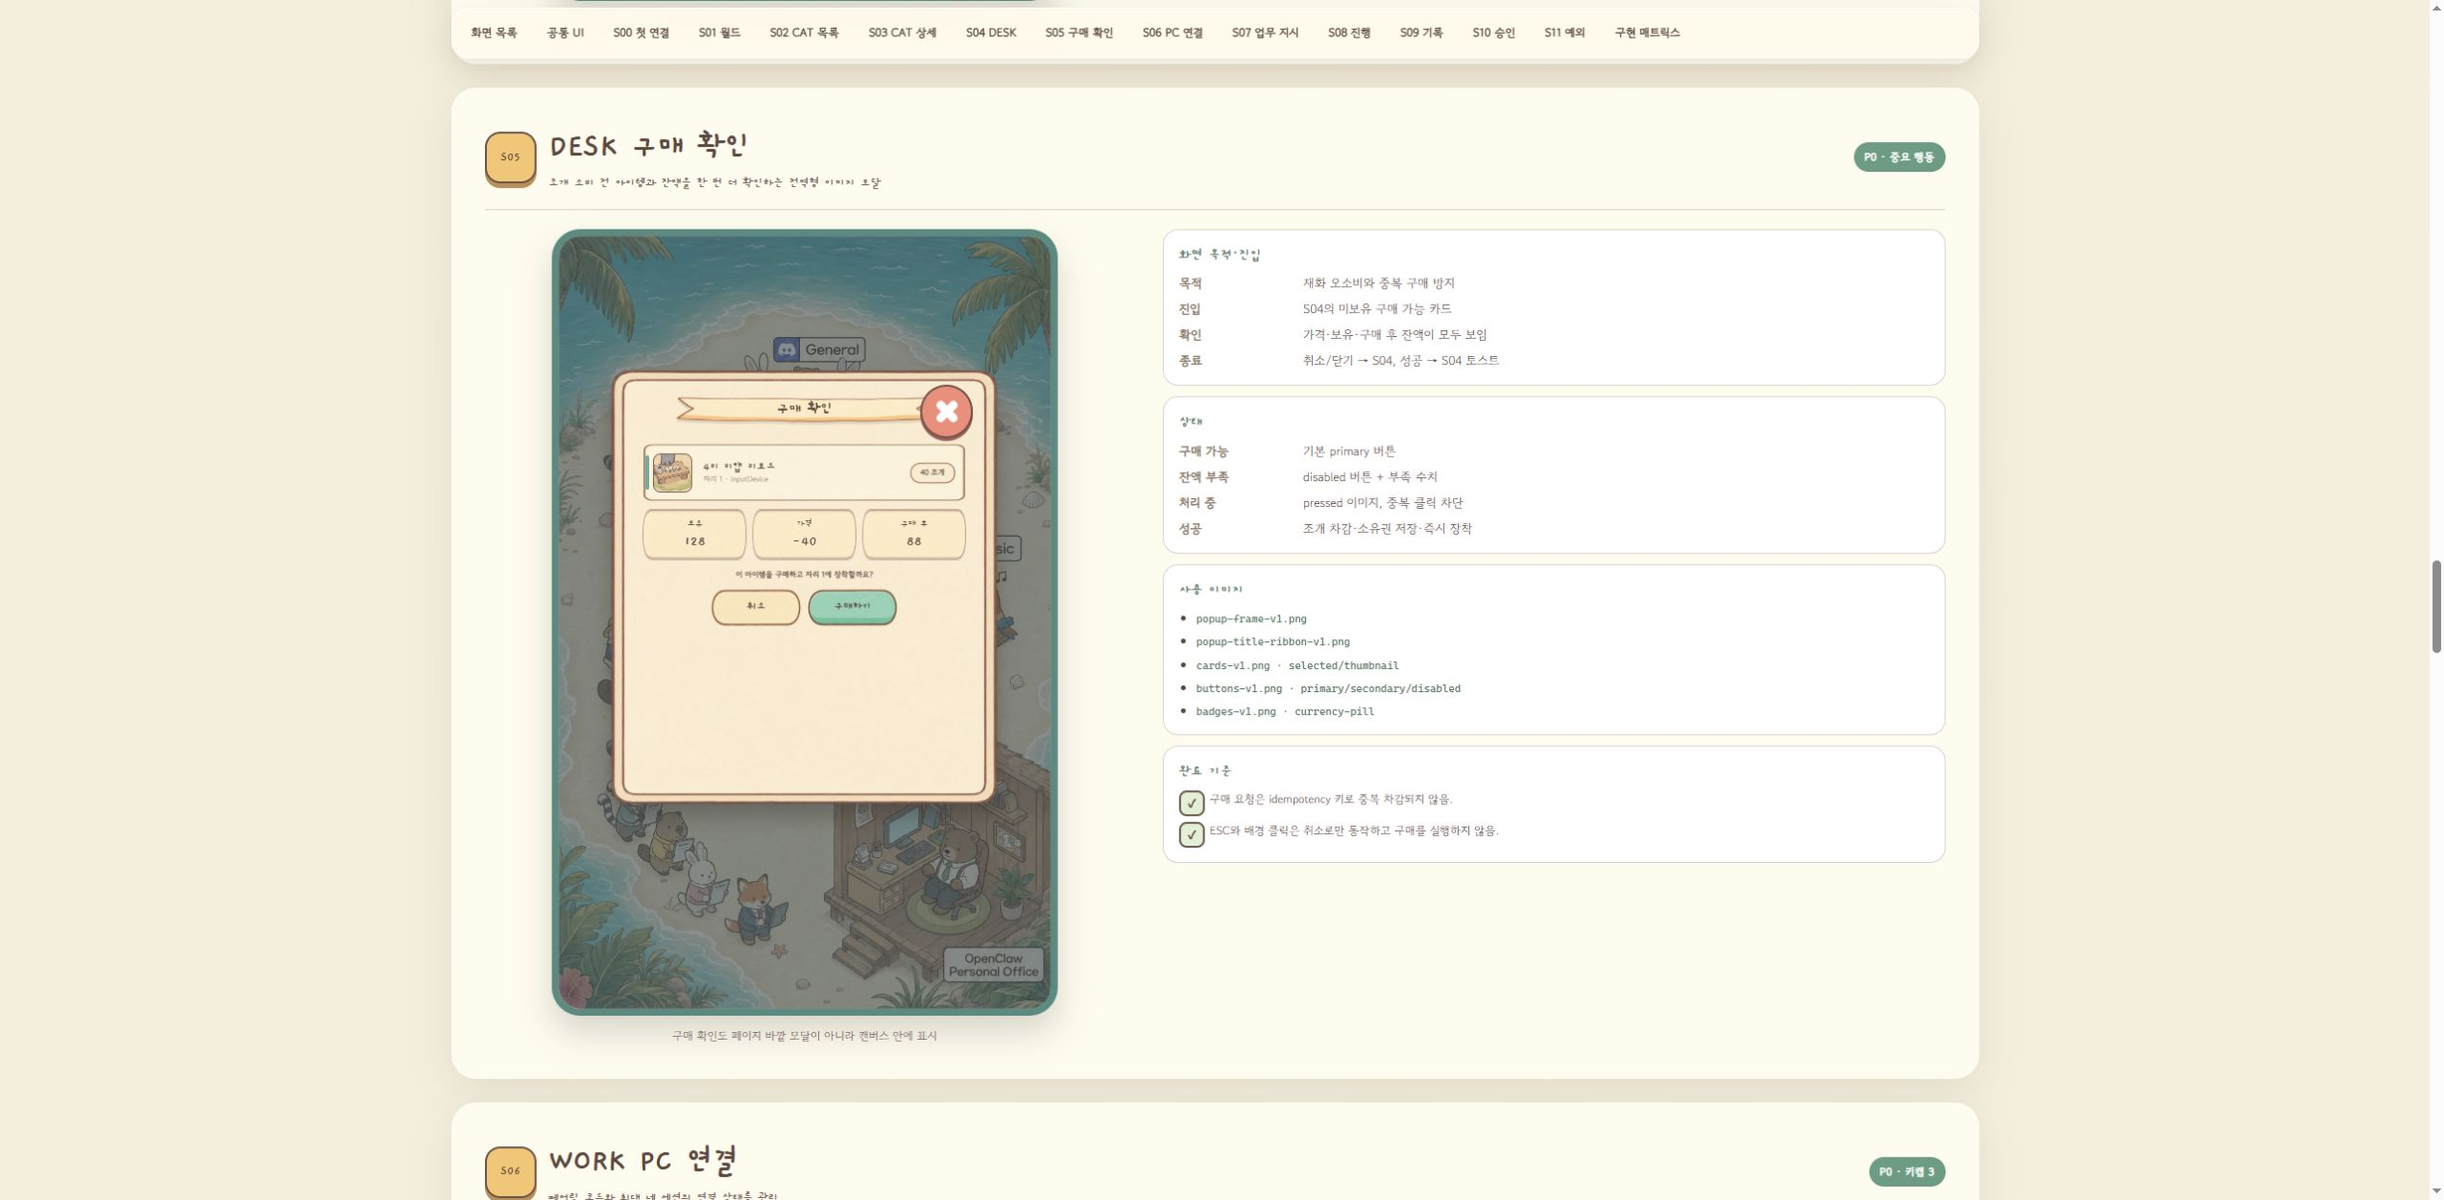
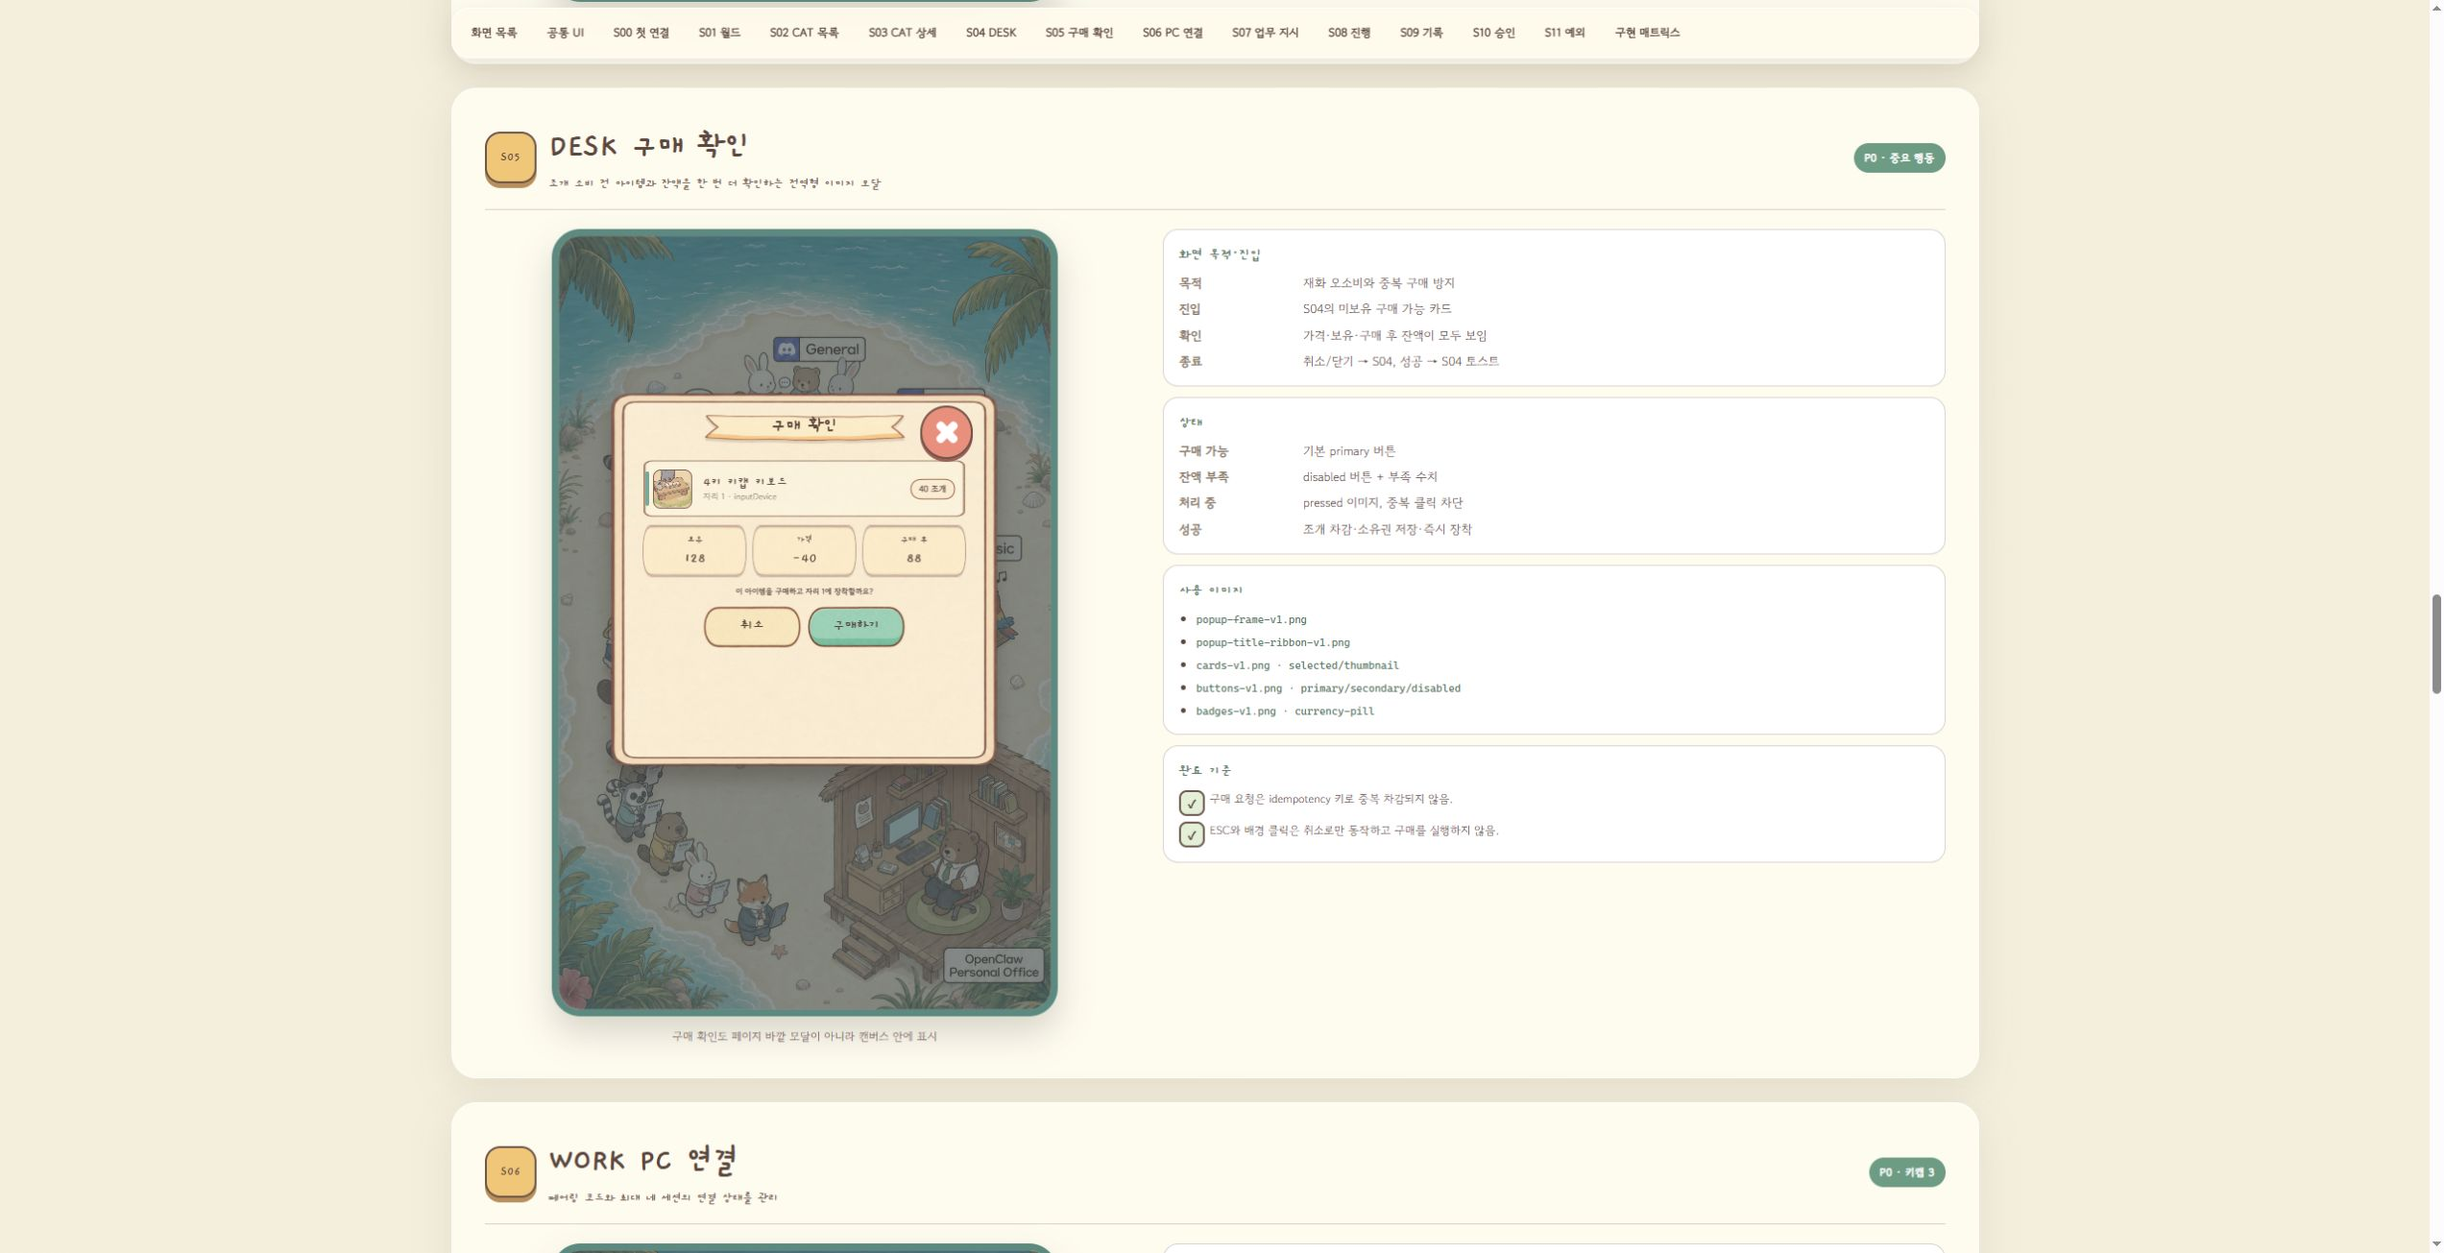
docs: strengthen popup typography and tabs

diff --git a/docs/cat-agent-screen-definition-20260728.html b/docs/cat-agent-screen-definition-20260728.html
@@ -24,7 +24,7 @@
     }
 
     * { box-sizing: border-box; }
-    html { scroll-behavior: smooth; }
+    html { scroll-behavior: auto; }
 
     body {
       margin: 0;
@@ -1191,23 +1191,23 @@
     }
 
     .title-ribbon {
-      top: 4.4%;
-      left: 14%;
-      width: 72%;
-      height: 10.5%;
+      top: 3.6%;
+      left: 22%;
+      width: 56%;
+      height: 12.8%;
     }
 
     .title-text {
-      top: 6.25%;
-      left: 20%;
+      top: 5.45%;
+      left: 26%;
       display: grid;
-      width: 60%;
-      height: 6.2%;
+      width: 48%;
+      height: 8.1%;
       place-items: center;
       overflow: hidden;
       color: #60483f;
       font-family: "Gaegu", "Gowun Dodum", sans-serif;
-      font-size: 16px;
+      font-size: 19px;
       font-weight: 700;
       line-height: 1;
       text-align: center;
@@ -1232,14 +1232,14 @@
     }
 
     .panel-body {
-      top: 17.5%;
+      top: 18.4%;
       left: 9%;
       width: 82%;
-      height: 74%;
+      height: 73%;
       color: #604d45;
       font-family: "Gowun Dodum", sans-serif;
-      font-size: 10px;
-      line-height: 1.42;
+      font-size: 11px;
+      line-height: 1.46;
     }
 
     .panel-body.scroll {
@@ -1252,7 +1252,7 @@
       margin-bottom: 2px;
       color: #927568;
       font-family: "Gaegu", sans-serif;
-      font-size: 9px;
+      font-size: 10px;
       font-weight: 700;
       letter-spacing: .08em;
     }
@@ -1264,7 +1264,8 @@
 
     .panel-heading strong {
       font-family: "Gaegu", sans-serif;
-      font-size: 15px;
+      font-size: 17px;
+      font-weight: 700;
       line-height: 1;
     }
 
@@ -1279,7 +1280,7 @@
       border-radius: 0;
       color: #6b554b;
       background: url("../public/art/ui/slices/badge-pill-v2.png") center / 100% 100% no-repeat;
-      font-size: 8px;
+      font-size: 9px;
       font-weight: 700;
       line-height: 1;
       white-space: nowrap;
@@ -1334,7 +1335,7 @@
     .log-row strong {
       margin-bottom: 2px;
       font-family: "Gaegu", "Gowun Dodum", sans-serif;
-      font-size: 12px;
+      font-size: 14px;
       font-weight: 700;
       line-height: 1.05;
     }
@@ -1342,7 +1343,7 @@
     .ui-card small,
     .log-row small {
       color: #887469;
-      font-size: 8px;
+      font-size: 9px;
       line-height: 1.25;
     }
 
@@ -1359,9 +1360,11 @@
     }
 
     .ui-tabs {
+      position: relative;
       align-items: end;
       gap: 2px;
-      margin-bottom: 8px;
+      margin-bottom: 9px;
+      isolation: isolate;
     }
 
     .ui-tab {
@@ -1374,10 +1377,14 @@
       color: #745e53;
       background: url("../public/art/ui/slices/tab-idle-v2.png") center / 100% 100% no-repeat;
       font-family: "Gaegu", "Gowun Dodum", sans-serif;
-      font-size: 11px;
+      font-size: 13px;
       font-weight: 700;
       line-height: 1;
       text-align: center;
+      filter:
+        drop-shadow(0 -1px 0 rgba(103, 76, 66, .78))
+        drop-shadow(1px 0 0 rgba(103, 76, 66, .62))
+        drop-shadow(-1px 0 0 rgba(103, 76, 66, .62));
     }
 
     .ui-tab.active {
@@ -1385,6 +1392,43 @@
       padding-top: 7px;
       color: #557766;
       background: url("../public/art/ui/slices/tab-active-v2.png") center / 100% 100% no-repeat;
+      filter:
+        drop-shadow(0 -1px 0 rgba(91, 70, 61, .9))
+        drop-shadow(1px 0 0 rgba(91, 70, 61, .72))
+        drop-shadow(-1px 0 0 rgba(91, 70, 61, .72));
+    }
+
+    .panel-body.tabbed {
+      position: absolute;
+      padding: 0 7px 9px;
+      overflow: visible;
+      isolation: isolate;
+    }
+
+    .panel-body.tabbed::after {
+      position: absolute;
+      z-index: -1;
+      top: 37px;
+      right: 0;
+      bottom: 0;
+      left: 0;
+      border: 2px solid #816358;
+      border-top-width: 2px;
+      border-radius: 0 0 13px 13px;
+      background: rgba(255, 249, 232, .93);
+      box-shadow:
+        inset 0 0 0 2px rgba(255, 255, 255, .52),
+        0 3px 0 rgba(111, 80, 68, .12);
+      content: "";
+    }
+
+    .panel-body.tabbed > .ui-tabs:first-child {
+      z-index: 2;
+      margin: 0 -7px 10px;
+    }
+
+    .panel-body.tabbed.scroll {
+      overflow-y: auto;
     }
 
     .ui-button-row {
@@ -1396,16 +1440,16 @@
 
     .ui-btn {
       display: inline-flex;
-      min-width: 94px;
-      min-height: 39px;
-      padding: 3px 16px 6px;
+      min-width: 102px;
+      min-height: 44px;
+      padding: 3px 18px 7px;
       align-items: center;
       justify-content: center;
       border-radius: 0;
       color: #57463f;
       background: url("../public/art/ui/slices/button-primary-v2.png") center / 100% 100% no-repeat;
       font-family: "Gaegu", "Gowun Dodum", sans-serif;
-      font-size: 12px;
+      font-size: 15px;
       font-weight: 700;
       line-height: 1;
       text-align: center;
@@ -1427,13 +1471,13 @@
     }
 
     .ui-btn.large {
-      min-width: 150px;
-      min-height: 43px;
+      min-width: 166px;
+      min-height: 48px;
     }
 
     .form-label {
       margin-top: 8px;
-      font-size: 9px;
+      font-size: 10px;
       font-weight: 700;
     }
 
@@ -1450,13 +1494,13 @@
     .inline-field {
       min-height: 37px;
       padding: 10px 13px;
-      font-size: 10px;
+      font-size: 11px;
     }
 
     .textarea {
       min-height: 86px;
       padding: 12px 14px;
-      font-size: 9px;
+      font-size: 10px;
       line-height: 1.5;
     }
 
@@ -1504,12 +1548,24 @@
     }
 
     .style-chip {
-      min-height: 30px;
+      min-height: 40px;
+      padding: 5px 3px 7px;
       border: 0;
       border-radius: 0;
       background: url("../public/art/ui/slices/button-disabled-v2.png") center / 100% 100% no-repeat;
       font-family: "Gaegu", sans-serif;
-      font-size: 9px;
+      font-size: 10px;
+      font-weight: 700;
+      line-height: 1.05;
+      text-align: center;
+    }
+
+    .style-chip small {
+      display: block;
+      margin-top: 3px;
+      color: #8c6552;
+      font-family: "Gowun Dodum", sans-serif;
+      font-size: 7px;
       font-weight: 700;
     }
 
@@ -1526,7 +1582,7 @@
       border-radius: 0;
       background: url("../public/art/ui/slices/card-default-v2.png") center / 100% 100% no-repeat;
       font-family: "Gaegu", sans-serif;
-      font-size: 9px;
+      font-size: 10px;
     }
 
     .item-card.active {
@@ -1557,12 +1613,12 @@
 
     .approval-hero {
       padding: 13px;
-      font-size: 9px;
+      font-size: 10px;
     }
 
     .approval-hero strong {
       font-family: "Gaegu", sans-serif !important;
-      font-size: 14px !important;
+      font-size: 17px !important;
     }
 
     .approval-icon {
@@ -1577,7 +1633,7 @@
 
     .state-tile strong {
       font-family: "Gaegu", sans-serif;
-      font-size: 12px;
+      font-size: 14px;
     }
 
     .fidelity-audit {
@@ -1721,11 +1777,11 @@
 
     @media (max-width: 720px) {
       .title-text {
-        font-size: 14px;
+        font-size: 17px;
       }
 
       .panel-body {
-        font-size: 9px;
+        font-size: 10px;
       }
 
       .ui-card {
@@ -1733,9 +1789,9 @@
       }
 
       .ui-btn {
-        min-width: 86px;
-        min-height: 38px;
-        font-size: 11px;
+        min-width: 94px;
+        min-height: 42px;
+        font-size: 14px;
       }
 
       .fidelity-audit-head {
@@ -2034,10 +2090,10 @@
                   <div class="need-stat">배설<b>35</b></div>
                   <div class="need-stat">행복<b>82</b></div>
                 </div>
-                <div class="form-label"><span>털 색 · 무늬</span><span>전체 무료</span></div>
+                <div class="form-label"><span>털 색 · 무늬</span><span>스타일별 가격</span></div>
                 <div class="style-grid">
-                  <span class="style-chip active">Bobtail</span><span class="style-chip">White</span><span class="style-chip">Black</span><span class="style-chip">Blue</span><span class="style-chip">Cream</span>
-                  <span class="style-chip">Siamese</span><span class="style-chip">Persian</span><span class="style-chip">Maine</span><span class="style-chip">Red</span><span class="style-chip">Simple</span>
+                  <span class="style-chip active">Bobtail<small>20 조개</small></span><span class="style-chip">White<small>15 조개</small></span><span class="style-chip">Black<small>15 조개</small></span><span class="style-chip">Blue<small>25 조개</small></span><span class="style-chip">Cream<small>15 조개</small></span>
+                  <span class="style-chip">Siamese<small>30 조개</small></span><span class="style-chip">Persian<small>35 조개</small></span><span class="style-chip">Maine<small>40 조개</small></span><span class="style-chip">Red<small>25 조개</small></span><span class="style-chip">Simple<small>20 조개</small></span>
                 </div>
                 <div class="ui-button-row"><span class="ui-btn secondary">밥 주기</span><span class="ui-btn">간식 주기</span></div>
               </div>
@@ -2047,7 +2103,7 @@
         </div>
         <div class="spec-column">
           <div class="spec-box"><h3>화면 목적·진입</h3><dl class="spec-list"><dt>목적</dt><dd>선택 고양이의 외형과 기본 욕구 관리</dd><dt>진입</dt><dd>S01 고양이 클릭 또는 S02 카드 클릭</dd><dt>뒤로</dt><dd>S02 목록으로 복귀</dd><dt>저장</dt><dd>이름·스타일 변경 즉시 로컬 저장</dd></dl></div>
-          <div class="spec-box"><h3>행동 정의</h3><dl class="spec-list"><dt>밥 주기</dt><dd>그릇 리필 → 고양이가 이동해 먹을 때 배고픔 0</dd><dt>간식 주기</dt><dd>조개 소비 또는 무료 보상 정책 확정 후 적용</dd><dt>스타일</dt><dd>15종 무료, 현재 구현은 전 고양이 공통 적용 경고 표시</dd><dt>이름</dt><dd>1~6자, 공백만 입력 금지</dd></dl></div>
+          <div class="spec-box"><h3>행동 정의</h3><dl class="spec-list"><dt>밥 주기</dt><dd>그릇 리필 → 고양이가 이동해 먹을 때 배고픔 0</dd><dt>간식 주기</dt><dd>조개 소비 또는 무료 보상 정책 확정 후 적용</dd><dt>스타일</dt><dd>종류별 15~40 조개로 최초 구매하며, 구매 완료한 스타일은 추가 비용 없이 다시 적용</dd><dt>이름</dt><dd>1~6자, 공백만 입력 금지</dd></dl></div>
           <div class="spec-box"><h3>사용 이미지</h3><ul class="asset-list"><li><code>cards-v1.png · selected + thumbnail</code></li><li><code>panels-v1.png · progress-track/fill</code></li><li><code>extras-v1.png · button-chip</code></li><li><code>buttons-v1.png · primary/secondary</code></li><li><code>icons-v1.png · paw/check/warning</code></li></ul></div>
           <div class="spec-box"><h3>금지 규칙</h3><dl class="spec-list"><dt>작업 API</dt><dd>행복도·배고픔 때문에 실제 Codex 시작/중단/승인을 지연하지 않음</dd><dt>체형</dt><dd>체형 선택·growthPoints 추천 토스트를 노출하지 않음</dd></dl></div>
           <div class="spec-box"><h3>완료 기준</h3><div class="accept">이름표, 목록, 상세의 욕구 값이 같은 프레임에서 일치.</div><div class="accept">돌봄 애니메이션이 작업 중 타건 애니메이션을 중단하지 않음.</div></div>
@@ -2071,9 +2127,9 @@
               <img class="panel-frame" src="../public/art/ui/popup-frame-v1.png" alt="" />
               <img class="title-ribbon" src="../public/art/ui/popup-title-ribbon-v1.png" alt="" />
               <span class="title-text">자리 꾸미기</span><span class="close-art"></span>
-              <div class="panel-body scroll">
-                <div class="panel-heading"><strong>나의 업무 자리</strong><span class="currency">128 조개</span></div>
+              <div class="panel-body tabbed scroll">
                 <div class="ui-tabs" style="--count:4"><span class="ui-tab active">자리 1</span><span class="ui-tab">자리 2</span><span class="ui-tab">자리 3</span><span class="ui-tab">자리 4</span></div>
+                <div class="panel-heading"><strong>나의 업무 자리</strong><span class="currency">128 조개</span></div>
                 <div class="form-label"><span>티어 진행 · 170 / 870</span><span>Tier 2</span></div>
                 <div class="progress" style="--value:32%"><i></i></div>
                 <div class="item-grid">
@@ -2155,7 +2211,7 @@
               <img class="panel-frame" src="../public/art/ui/popup-frame-v1.png" alt="" />
               <img class="title-ribbon" src="../public/art/ui/popup-title-ribbon-v1.png" alt="" />
               <span class="title-text">PC 연결·업무</span><span class="close-art"></span>
-              <div class="panel-body scroll">
+              <div class="panel-body tabbed scroll">
                 <div class="ui-tabs"><span class="ui-tab active">연결</span><span class="ui-tab">업무 지시</span></div>
                 <div class="panel-heading"><strong>내 PC 세션</strong><span class="card-badge">연결됨</span></div>
                 <div class="ui-card selected"><span class="avatar session">1</span><span><strong>AgentForestWorkspace</strong><small>Codex · idle</small></span><span class="card-badge">온라인</span></div>
@@ -2194,7 +2250,7 @@
               <img class="panel-frame" src="../public/art/ui/popup-frame-v1.png" alt="" />
               <img class="title-ribbon" src="../public/art/ui/popup-title-ribbon-v1.png" alt="" />
               <span class="title-text">업무 지시</span><span class="close-art"></span>
-              <div class="panel-body">
+              <div class="panel-body tabbed">
                 <div class="ui-tabs"><span class="ui-tab">연결</span><span class="ui-tab active">업무 지시</span></div>
                 <div class="ui-card selected"><span class="avatar session">2</span><span><strong>선택 세션 · 게임 UI 수정</strong><small>AgentForestWorkspace</small></span><span class="card-badge">준비</span></div>
                 <div class="form-label"><span>업무 부서</span><span>1개 선택</span></div>
@@ -2233,7 +2289,7 @@
               <img class="panel-frame" src="../public/art/ui/popup-frame-v1.png" alt="" />
               <img class="title-ribbon" src="../public/art/ui/popup-title-ribbon-v1.png" alt="" />
               <span class="title-text">진행 상태·기록</span><span class="close-art"></span>
-              <div class="panel-body">
+              <div class="panel-body tabbed">
                 <div class="ui-tabs"><span class="ui-tab active">진행 상태</span><span class="ui-tab">활동 기록 · 3</span></div>
                 <div class="ui-card selected"><span class="avatar cat"></span><span><strong>디자이너 보리 · 실제 Codex</strong><small>이름표 욕구 게이지 이미지 적용</small></span><span class="card-badge warn">작업 중</span></div>
                 <div class="form-label"><span>현재 단계</span><span>렌더 검증</span></div>
@@ -2276,7 +2332,7 @@
               <img class="panel-frame" src="../public/art/ui/popup-frame-v1.png" alt="" />
               <img class="title-ribbon" src="../public/art/ui/popup-title-ribbon-v1.png" alt="" />
               <span class="title-text">활동 기록</span><span class="close-art"></span>
-              <div class="panel-body scroll">
+              <div class="panel-body tabbed scroll">
                 <div class="ui-tabs"><span class="ui-tab">진행 상태</span><span class="ui-tab active">활동 기록 · 3</span></div>
                 <div class="log-row"><span class="log-icon">✓</span><span><strong>작업 완료 · 디자이너 보리</strong><small>서버 업데이트 검증 완료</small></span><span>3분 전</span></div>
                 <div class="log-row"><span class="log-icon">→</span><span><strong>작업 시작 · 코치 모모</strong><small>고양이 욕구 UI 적용</small></span><span>12분 전</span></div>
